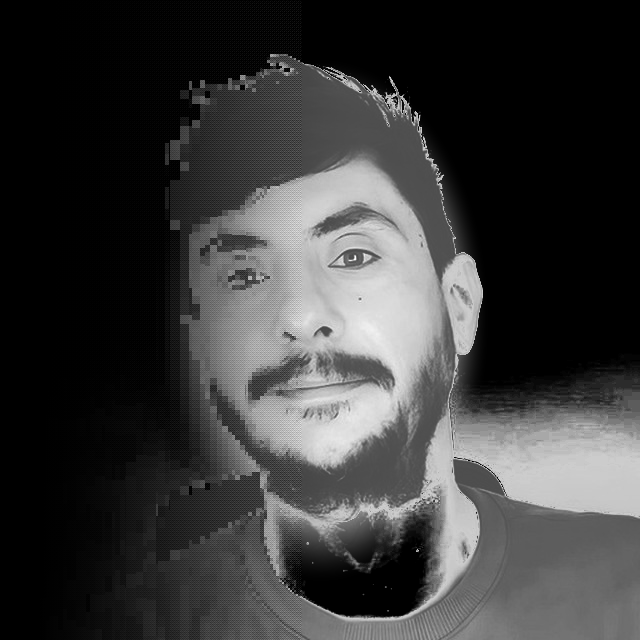
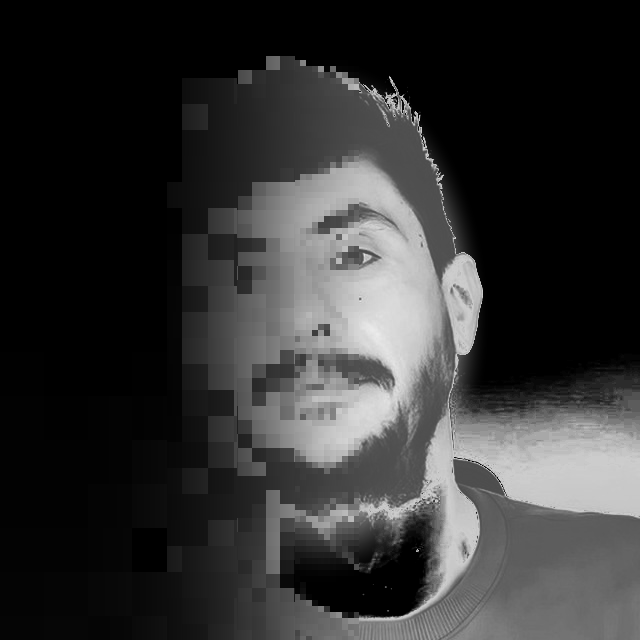
Blog

Changed region(s): [[0.1875, 0.0625, 0.5625, 1.0]]

diff --git a/posts/sheetpilot/index.html b/posts/sheetpilot/index.html
@@ -16,7 +16,7 @@
 <link rel="alternate" type="application/rss+xml" title="George Stathopoulos's blog" href="https://george-stathopoulos.github.io/blog/feed.xml">
 <link rel="icon" href="/blog/assets/favicon.svg" type="image/svg+xml">
 <link rel="preload" href="/blog/assets/fonts/vt323-latin-400-normal.woff2" as="font" type="font/woff2" crossorigin>
-<link rel="stylesheet" href="/blog/assets/site.css?v=mv9ah9m8">
+<link rel="stylesheet" href="/blog/assets/site.css?v=mv9ai0ot">
 <script>document.documentElement.classList.remove('no-js');try{var t=localStorage.getItem('gs-blog-theme'),f=localStorage.getItem('gs-blog-font');if(t)document.documentElement.dataset.theme=t;if(f)document.documentElement.dataset.font=f}catch(e){}</script>
 <!-- Cloudflare Web Analytics: counts visits anonymously, no cookies --><script type='module' src='https://static.cloudflareinsights.com/beacon.min.js' data-cf-beacon='{"token": "64332b427a604e879f82853393ebdb0d"}'></script><!-- End Cloudflare Web Analytics -->
 <script type="application/ld+json">{"@context":"https://schema.org","@type":"BlogPosting","headline":"SheetPilot: your spreadsheet, but it talks back","datePublished":"2026-10-15","description":"Most teams keep what matters in spreadsheets, and then only store it. SheetPilot reads the sheet and tells you what stands out. Nothing leaves your browser.","author":{"@type":"Person","name":"George Stathopoulos","url":"https://george-stathopoulos.github.io/"},"mainEntityOfPage":"https://george-stathopoulos.github.io/blog/posts/sheetpilot/"}</script>
@@ -84,6 +84,6 @@
 		<p class="foot-meta"><a href="https://george-stathopoulos.github.io/">george-stathopoulos.github.io</a> · <a href="https://github.com/george-stathopoulos/blog">source</a> · no cookies; visits are counted anonymously, with no personal data · made with <span class="heart" aria-label="love">♥</span> in Athens</p>
 	</div>
 </footer>
-<script src="/blog/assets/site.js?v=mv9ah9m8" defer></script>
+<script src="/blog/assets/site.js?v=mv9ai0ot" defer></script>
 </body>
 </html>

diff --git a/posts/mission-control/index.html b/posts/mission-control/index.html
@@ -16,7 +16,7 @@
 <link rel="alternate" type="application/rss+xml" title="George Stathopoulos's blog" href="https://george-stathopoulos.github.io/blog/feed.xml">
 <link rel="icon" href="/blog/assets/favicon.svg" type="image/svg+xml">
 <link rel="preload" href="/blog/assets/fonts/vt323-latin-400-normal.woff2" as="font" type="font/woff2" crossorigin>
-<link rel="stylesheet" href="/blog/assets/site.css?v=mv9ah9m8">
+<link rel="stylesheet" href="/blog/assets/site.css?v=mv9ai0ot">
 <script>document.documentElement.classList.remove('no-js');try{var t=localStorage.getItem('gs-blog-theme'),f=localStorage.getItem('gs-blog-font');if(t)document.documentElement.dataset.theme=t;if(f)document.documentElement.dataset.font=f}catch(e){}</script>
 <!-- Cloudflare Web Analytics: counts visits anonymously, no cookies --><script type='module' src='https://static.cloudflareinsights.com/beacon.min.js' data-cf-beacon='{"token": "64332b427a604e879f82853393ebdb0d"}'></script><!-- End Cloudflare Web Analytics -->
 <script type="application/ld+json">{"@context":"https://schema.org","@type":"BlogPosting","headline":"Mission Control: counting visits without selling anyone out","datePublished":"2026-10-15","description":"I wanted to know if anyone visits my sites. Without cookies, ads or a spyware dashboard. So I built a very private, very boring one.","author":{"@type":"Person","name":"George Stathopoulos","url":"https://george-stathopoulos.github.io/"},"mainEntityOfPage":"https://george-stathopoulos.github.io/blog/posts/mission-control/"}</script>
@@ -83,6 +83,6 @@
 		<p class="foot-meta"><a href="https://george-stathopoulos.github.io/">george-stathopoulos.github.io</a> · <a href="https://github.com/george-stathopoulos/blog">source</a> · no cookies; visits are counted anonymously, with no personal data · made with <span class="heart" aria-label="love">♥</span> in Athens</p>
 	</div>
 </footer>
-<script src="/blog/assets/site.js?v=mv9ah9m8" defer></script>
+<script src="/blog/assets/site.js?v=mv9ai0ot" defer></script>
 </body>
 </html>

diff --git a/posts/mitos-checklist/index.html b/posts/mitos-checklist/index.html
@@ -16,7 +16,7 @@
 <link rel="alternate" type="application/rss+xml" title="George Stathopoulos's blog" href="https://george-stathopoulos.github.io/blog/feed.xml">
 <link rel="icon" href="/blog/assets/favicon.svg" type="image/svg+xml">
 <link rel="preload" href="/blog/assets/fonts/vt323-latin-400-normal.woff2" as="font" type="font/woff2" crossorigin>
-<link rel="stylesheet" href="/blog/assets/site.css?v=mv9ah9m8">
+<link rel="stylesheet" href="/blog/assets/site.css?v=mv9ai0ot">
 <script>document.documentElement.classList.remove('no-js');try{var t=localStorage.getItem('gs-blog-theme'),f=localStorage.getItem('gs-blog-font');if(t)document.documentElement.dataset.theme=t;if(f)document.documentElement.dataset.font=f}catch(e){}</script>
 <!-- Cloudflare Web Analytics: counts visits anonymously, no cookies --><script type='module' src='https://static.cloudflareinsights.com/beacon.min.js' data-cf-beacon='{"token": "64332b427a604e879f82853393ebdb0d"}'></script><!-- End Cloudflare Web Analytics -->
 <script type="application/ld+json">{"@context":"https://schema.org","@type":"BlogPosting","headline":"Mitos Checklist: Greek bureaucracy, tick by tick","datePublished":"2026-10-15","description":"Starting a business in Greece means a pile of procedures. The data exists. I turned it into checklists you can actually follow.","author":{"@type":"Person","name":"George Stathopoulos","url":"https://george-stathopoulos.github.io/"},"mainEntityOfPage":"https://george-stathopoulos.github.io/blog/posts/mitos-checklist/"}</script>
@@ -86,6 +86,6 @@
 		<p class="foot-meta"><a href="https://george-stathopoulos.github.io/">george-stathopoulos.github.io</a> · <a href="https://github.com/george-stathopoulos/blog">source</a> · no cookies; visits are counted anonymously, with no personal data · made with <span class="heart" aria-label="love">♥</span> in Athens</p>
 	</div>
 </footer>
-<script src="/blog/assets/site.js?v=mv9ah9m8" defer></script>
+<script src="/blog/assets/site.js?v=mv9ai0ot" defer></script>
 </body>
 </html>

diff --git a/posts/helpdesk-hero/index.html b/posts/helpdesk-hero/index.html
@@ -16,7 +16,7 @@
 <link rel="alternate" type="application/rss+xml" title="George Stathopoulos's blog" href="https://george-stathopoulos.github.io/blog/feed.xml">
 <link rel="icon" href="/blog/assets/favicon.svg" type="image/svg+xml">
 <link rel="preload" href="/blog/assets/fonts/vt323-latin-400-normal.woff2" as="font" type="font/woff2" crossorigin>
-<link rel="stylesheet" href="/blog/assets/site.css?v=mv9ah9m8">
+<link rel="stylesheet" href="/blog/assets/site.css?v=mv9ai0ot">
 <script>document.documentElement.classList.remove('no-js');try{var t=localStorage.getItem('gs-blog-theme'),f=localStorage.getItem('gs-blog-font');if(t)document.documentElement.dataset.theme=t;if(f)document.documentElement.dataset.font=f}catch(e){}</script>
 <!-- Cloudflare Web Analytics: counts visits anonymously, no cookies --><script type='module' src='https://static.cloudflareinsights.com/beacon.min.js' data-cf-beacon='{"token": "64332b427a604e879f82853393ebdb0d"}'></script><!-- End Cloudflare Web Analytics -->
 <script type="application/ld+json">{"@context":"https://schema.org","@type":"BlogPosting","headline":"Helpdesk Hero: please stop emailing me your password","datePublished":"2026-10-15","description":"The first five emails of a support ticket are always the same questions. I tried to make them unnecessary.","author":{"@type":"Person","name":"George Stathopoulos","url":"https://george-stathopoulos.github.io/"},"mainEntityOfPage":"https://george-stathopoulos.github.io/blog/posts/helpdesk-hero/"}</script>
@@ -89,6 +89,6 @@
 		<p class="foot-meta"><a href="https://george-stathopoulos.github.io/">george-stathopoulos.github.io</a> · <a href="https://github.com/george-stathopoulos/blog">source</a> · no cookies; visits are counted anonymously, with no personal data · made with <span class="heart" aria-label="love">♥</span> in Athens</p>
 	</div>
 </footer>
-<script src="/blog/assets/site.js?v=mv9ah9m8" defer></script>
+<script src="/blog/assets/site.js?v=mv9ai0ot" defer></script>
 </body>
 </html>

diff --git a/posts/gatehouse/index.html b/posts/gatehouse/index.html
@@ -16,7 +16,7 @@
 <link rel="alternate" type="application/rss+xml" title="George Stathopoulos's blog" href="https://george-stathopoulos.github.io/blog/feed.xml">
 <link rel="icon" href="/blog/assets/favicon.svg" type="image/svg+xml">
 <link rel="preload" href="/blog/assets/fonts/vt323-latin-400-normal.woff2" as="font" type="font/woff2" crossorigin>
-<link rel="stylesheet" href="/blog/assets/site.css?v=mv9ah9m8">
+<link rel="stylesheet" href="/blog/assets/site.css?v=mv9ai0ot">
 <script>document.documentElement.classList.remove('no-js');try{var t=localStorage.getItem('gs-blog-theme'),f=localStorage.getItem('gs-blog-font');if(t)document.documentElement.dataset.theme=t;if(f)document.documentElement.dataset.font=f}catch(e){}</script>
 <!-- Cloudflare Web Analytics: counts visits anonymously, no cookies --><script type='module' src='https://static.cloudflareinsights.com/beacon.min.js' data-cf-beacon='{"token": "64332b427a604e879f82853393ebdb0d"}'></script><!-- End Cloudflare Web Analytics -->
 <script type="application/ld+json">{"@context":"https://schema.org","@type":"BlogPosting","headline":"Gatehouse: who is spending my AI money?","datePublished":"2026-10-15","description":"Every AI plugin shares one bill and one API key, and nobody tells you who ate what. So I built a gatehouse.","author":{"@type":"Person","name":"George Stathopoulos","url":"https://george-stathopoulos.github.io/"},"mainEntityOfPage":"https://george-stathopoulos.github.io/blog/posts/gatehouse/"}</script>
@@ -84,6 +84,6 @@
 		<p class="foot-meta"><a href="https://george-stathopoulos.github.io/">george-stathopoulos.github.io</a> · <a href="https://github.com/george-stathopoulos/blog">source</a> · no cookies; visits are counted anonymously, with no personal data · made with <span class="heart" aria-label="love">♥</span> in Athens</p>
 	</div>
 </footer>
-<script src="/blog/assets/site.js?v=mv9ah9m8" defer></script>
+<script src="/blog/assets/site.js?v=mv9ai0ot" defer></script>
 </body>
 </html>

diff --git a/posts/fixpass/index.html b/posts/fixpass/index.html
@@ -16,7 +16,7 @@
 <link rel="alternate" type="application/rss+xml" title="George Stathopoulos's blog" href="https://george-stathopoulos.github.io/blog/feed.xml">
 <link rel="icon" href="/blog/assets/favicon.svg" type="image/svg+xml">
 <link rel="preload" href="/blog/assets/fonts/vt323-latin-400-normal.woff2" as="font" type="font/woff2" crossorigin>
-<link rel="stylesheet" href="/blog/assets/site.css?v=mv9ah9m8">
+<link rel="stylesheet" href="/blog/assets/site.css?v=mv9ai0ot">
 <script>document.documentElement.classList.remove('no-js');try{var t=localStorage.getItem('gs-blog-theme'),f=localStorage.getItem('gs-blog-font');if(t)document.documentElement.dataset.theme=t;if(f)document.documentElement.dataset.font=f}catch(e){}</script>
 <!-- Cloudflare Web Analytics: counts visits anonymously, no cookies --><script type='module' src='https://static.cloudflareinsights.com/beacon.min.js' data-cf-beacon='{"token": "64332b427a604e879f82853393ebdb0d"}'></script><!-- End Cloudflare Web Analytics -->
 <script type="application/ld+json">{"@context":"https://schema.org","@type":"BlogPosting","headline":"Fixpass: point at the problem, skip the password","datePublished":"2026-10-15","description":"Which button is broken? A plugin that lets you point at the problem, and lets support in safely.","author":{"@type":"Person","name":"George Stathopoulos","url":"https://george-stathopoulos.github.io/"},"mainEntityOfPage":"https://george-stathopoulos.github.io/blog/posts/fixpass/"}</script>
@@ -84,6 +84,6 @@
 		<p class="foot-meta"><a href="https://george-stathopoulos.github.io/">george-stathopoulos.github.io</a> · <a href="https://github.com/george-stathopoulos/blog">source</a> · no cookies; visits are counted anonymously, with no personal data · made with <span class="heart" aria-label="love">♥</span> in Athens</p>
 	</div>
 </footer>
-<script src="/blog/assets/site.js?v=mv9ah9m8" defer></script>
+<script src="/blog/assets/site.js?v=mv9ai0ot" defer></script>
 </body>
 </html>

diff --git a/posts/hello-world/index.html b/posts/hello-world/index.html
@@ -16,7 +16,7 @@
 <link rel="alternate" type="application/rss+xml" title="George Stathopoulos's blog" href="https://george-stathopoulos.github.io/blog/feed.xml">
 <link rel="icon" href="/blog/assets/favicon.svg" type="image/svg+xml">
 <link rel="preload" href="/blog/assets/fonts/vt323-latin-400-normal.woff2" as="font" type="font/woff2" crossorigin>
-<link rel="stylesheet" href="/blog/assets/site.css?v=mv9ah9m8">
+<link rel="stylesheet" href="/blog/assets/site.css?v=mv9ai0ot">
 <script>document.documentElement.classList.remove('no-js');try{var t=localStorage.getItem('gs-blog-theme'),f=localStorage.getItem('gs-blog-font');if(t)document.documentElement.dataset.theme=t;if(f)document.documentElement.dataset.font=f}catch(e){}</script>
 <!-- Cloudflare Web Analytics: counts visits anonymously, no cookies --><script type='module' src='https://static.cloudflareinsights.com/beacon.min.js' data-cf-beacon='{"token": "64332b427a604e879f82853393ebdb0d"}'></script><!-- End Cloudflare Web Analytics -->
 <script type="application/ld+json">{"@context":"https://schema.org","@type":"BlogPosting","headline":"Hello, world. Again.","datePublished":"2026-10-15","description":"Why a support person with a day job keeps building tools, and why each one now gets a story.","author":{"@type":"Person","name":"George Stathopoulos","url":"https://george-stathopoulos.github.io/"},"mainEntityOfPage":"https://george-stathopoulos.github.io/blog/posts/hello-world/"}</script>
@@ -80,6 +80,6 @@
 		<p class="foot-meta"><a href="https://george-stathopoulos.github.io/">george-stathopoulos.github.io</a> · <a href="https://github.com/george-stathopoulos/blog">source</a> · no cookies; visits are counted anonymously, with no personal data · made with <span class="heart" aria-label="love">♥</span> in Athens</p>
 	</div>
 </footer>
-<script src="/blog/assets/site.js?v=mv9ah9m8" defer></script>
+<script src="/blog/assets/site.js?v=mv9ai0ot" defer></script>
 </body>
 </html>

diff --git a/index.html b/index.html
@@ -16,7 +16,7 @@
 <link rel="alternate" type="application/rss+xml" title="George Stathopoulos's blog" href="https://george-stathopoulos.github.io/blog/feed.xml">
 <link rel="icon" href="/blog/assets/favicon.svg" type="image/svg+xml">
 <link rel="preload" href="/blog/assets/fonts/vt323-latin-400-normal.woff2" as="font" type="font/woff2" crossorigin>
-<link rel="stylesheet" href="/blog/assets/site.css?v=mv9ah9m8">
+<link rel="stylesheet" href="/blog/assets/site.css?v=mv9ai0ot">
 <script>document.documentElement.classList.remove('no-js');try{var t=localStorage.getItem('gs-blog-theme'),f=localStorage.getItem('gs-blog-font');if(t)document.documentElement.dataset.theme=t;if(f)document.documentElement.dataset.font=f}catch(e){}</script>
 <!-- Cloudflare Web Analytics: counts visits anonymously, no cookies --><script type='module' src='https://static.cloudflareinsights.com/beacon.min.js' data-cf-beacon='{"token": "64332b427a604e879f82853393ebdb0d"}'></script><!-- End Cloudflare Web Analytics -->
 <script type="application/ld+json">{"@context":"https://schema.org","@type":"Blog","name":"George Stathopoulos's blog","url":"https://george-stathopoulos.github.io/blog/","author":{"@type":"Person","name":"George Stathopoulos","url":"https://george-stathopoulos.github.io/"}}</script>
@@ -101,6 +101,6 @@ LOADING BAD JOKES ....... OK</pre>
 		<p class="foot-meta"><a href="https://george-stathopoulos.github.io/">george-stathopoulos.github.io</a> · <a href="https://github.com/george-stathopoulos/blog">source</a> · no cookies; visits are counted anonymously, with no personal data · made with <span class="heart" aria-label="love">♥</span> in Athens</p>
 	</div>
 </footer>
-<script src="/blog/assets/site.js?v=mv9ah9m8" defer></script>
+<script src="/blog/assets/site.js?v=mv9ai0ot" defer></script>
 </body>
 </html>

diff --git a/404.html b/404.html
@@ -17,7 +17,7 @@
 <link rel="alternate" type="application/rss+xml" title="George Stathopoulos's blog" href="https://george-stathopoulos.github.io/blog/feed.xml">
 <link rel="icon" href="/blog/assets/favicon.svg" type="image/svg+xml">
 <link rel="preload" href="/blog/assets/fonts/vt323-latin-400-normal.woff2" as="font" type="font/woff2" crossorigin>
-<link rel="stylesheet" href="/blog/assets/site.css?v=mv9ah9m8">
+<link rel="stylesheet" href="/blog/assets/site.css?v=mv9ai0ot">
 <script>document.documentElement.classList.remove('no-js');try{var t=localStorage.getItem('gs-blog-theme'),f=localStorage.getItem('gs-blog-font');if(t)document.documentElement.dataset.theme=t;if(f)document.documentElement.dataset.font=f}catch(e){}</script>
 <!-- Cloudflare Web Analytics: counts visits anonymously, no cookies --><script type='module' src='https://static.cloudflareinsights.com/beacon.min.js' data-cf-beacon='{"token": "64332b427a604e879f82853393ebdb0d"}'></script><!-- End Cloudflare Web Analytics -->
 </head>
@@ -50,6 +50,6 @@
 		<p class="foot-meta"><a href="https://george-stathopoulos.github.io/">george-stathopoulos.github.io</a> · <a href="https://github.com/george-stathopoulos/blog">source</a> · no cookies; visits are counted anonymously, with no personal data · made with <span class="heart" aria-label="love">♥</span> in Athens</p>
 	</div>
 </footer>
-<script src="/blog/assets/site.js?v=mv9ah9m8" defer></script>
+<script src="/blog/assets/site.js?v=mv9ai0ot" defer></script>
 </body>
 </html>

diff --git a/about/index.html b/about/index.html
@@ -16,7 +16,7 @@
 <link rel="alternate" type="application/rss+xml" title="George Stathopoulos's blog" href="https://george-stathopoulos.github.io/blog/feed.xml">
 <link rel="icon" href="/blog/assets/favicon.svg" type="image/svg+xml">
 <link rel="preload" href="/blog/assets/fonts/vt323-latin-400-normal.woff2" as="font" type="font/woff2" crossorigin>
-<link rel="stylesheet" href="/blog/assets/site.css?v=mv9ah9m8">
+<link rel="stylesheet" href="/blog/assets/site.css?v=mv9ai0ot">
 <script>document.documentElement.classList.remove('no-js');try{var t=localStorage.getItem('gs-blog-theme'),f=localStorage.getItem('gs-blog-font');if(t)document.documentElement.dataset.theme=t;if(f)document.documentElement.dataset.font=f}catch(e){}</script>
 <!-- Cloudflare Web Analytics: counts visits anonymously, no cookies --><script type='module' src='https://static.cloudflareinsights.com/beacon.min.js' data-cf-beacon='{"token": "64332b427a604e879f82853393ebdb0d"}'></script><!-- End Cloudflare Web Analytics -->
 </head>
@@ -78,6 +78,6 @@
 		<p class="foot-meta"><a href="https://george-stathopoulos.github.io/">george-stathopoulos.github.io</a> · <a href="https://github.com/george-stathopoulos/blog">source</a> · no cookies; visits are counted anonymously, with no personal data · made with <span class="heart" aria-label="love">♥</span> in Athens</p>
 	</div>
 </footer>
-<script src="/blog/assets/site.js?v=mv9ah9m8" defer></script>
+<script src="/blog/assets/site.js?v=mv9ai0ot" defer></script>
 </body>
 </html>

diff --git a/posts/index.html b/posts/index.html
@@ -16,7 +16,7 @@
 <link rel="alternate" type="application/rss+xml" title="George Stathopoulos's blog" href="https://george-stathopoulos.github.io/blog/feed.xml">
 <link rel="icon" href="/blog/assets/favicon.svg" type="image/svg+xml">
 <link rel="preload" href="/blog/assets/fonts/vt323-latin-400-normal.woff2" as="font" type="font/woff2" crossorigin>
-<link rel="stylesheet" href="/blog/assets/site.css?v=mv9ah9m8">
+<link rel="stylesheet" href="/blog/assets/site.css?v=mv9ai0ot">
 <script>document.documentElement.classList.remove('no-js');try{var t=localStorage.getItem('gs-blog-theme'),f=localStorage.getItem('gs-blog-font');if(t)document.documentElement.dataset.theme=t;if(f)document.documentElement.dataset.font=f}catch(e){}</script>
 <!-- Cloudflare Web Analytics: counts visits anonymously, no cookies --><script type='module' src='https://static.cloudflareinsights.com/beacon.min.js' data-cf-beacon='{"token": "64332b427a604e879f82853393ebdb0d"}'></script><!-- End Cloudflare Web Analytics -->
 </head>
@@ -84,6 +84,6 @@
 		<p class="foot-meta"><a href="https://george-stathopoulos.github.io/">george-stathopoulos.github.io</a> · <a href="https://github.com/george-stathopoulos/blog">source</a> · no cookies; visits are counted anonymously, with no personal data · made with <span class="heart" aria-label="love">♥</span> in Athens</p>
 	</div>
 </footer>
-<script src="/blog/assets/site.js?v=mv9ah9m8" defer></script>
+<script src="/blog/assets/site.js?v=mv9ai0ot" defer></script>
 </body>
 </html>

diff --git a/projects/index.html b/projects/index.html
@@ -16,7 +16,7 @@
 <link rel="alternate" type="application/rss+xml" title="George Stathopoulos's blog" href="https://george-stathopoulos.github.io/blog/feed.xml">
 <link rel="icon" href="/blog/assets/favicon.svg" type="image/svg+xml">
 <link rel="preload" href="/blog/assets/fonts/vt323-latin-400-normal.woff2" as="font" type="font/woff2" crossorigin>
-<link rel="stylesheet" href="/blog/assets/site.css?v=mv9ah9m8">
+<link rel="stylesheet" href="/blog/assets/site.css?v=mv9ai0ot">
 <script>document.documentElement.classList.remove('no-js');try{var t=localStorage.getItem('gs-blog-theme'),f=localStorage.getItem('gs-blog-font');if(t)document.documentElement.dataset.theme=t;if(f)document.documentElement.dataset.font=f}catch(e){}</script>
 <!-- Cloudflare Web Analytics: counts visits anonymously, no cookies --><script type='module' src='https://static.cloudflareinsights.com/beacon.min.js' data-cf-beacon='{"token": "64332b427a604e879f82853393ebdb0d"}'></script><!-- End Cloudflare Web Analytics -->
 </head>
@@ -85,6 +85,6 @@
 		<p class="foot-meta"><a href="https://george-stathopoulos.github.io/">george-stathopoulos.github.io</a> · <a href="https://github.com/george-stathopoulos/blog">source</a> · no cookies; visits are counted anonymously, with no personal data · made with <span class="heart" aria-label="love">♥</span> in Athens</p>
 	</div>
 </footer>
-<script src="/blog/assets/site.js?v=mv9ah9m8" defer></script>
+<script src="/blog/assets/site.js?v=mv9ai0ot" defer></script>
 </body>
 </html>
